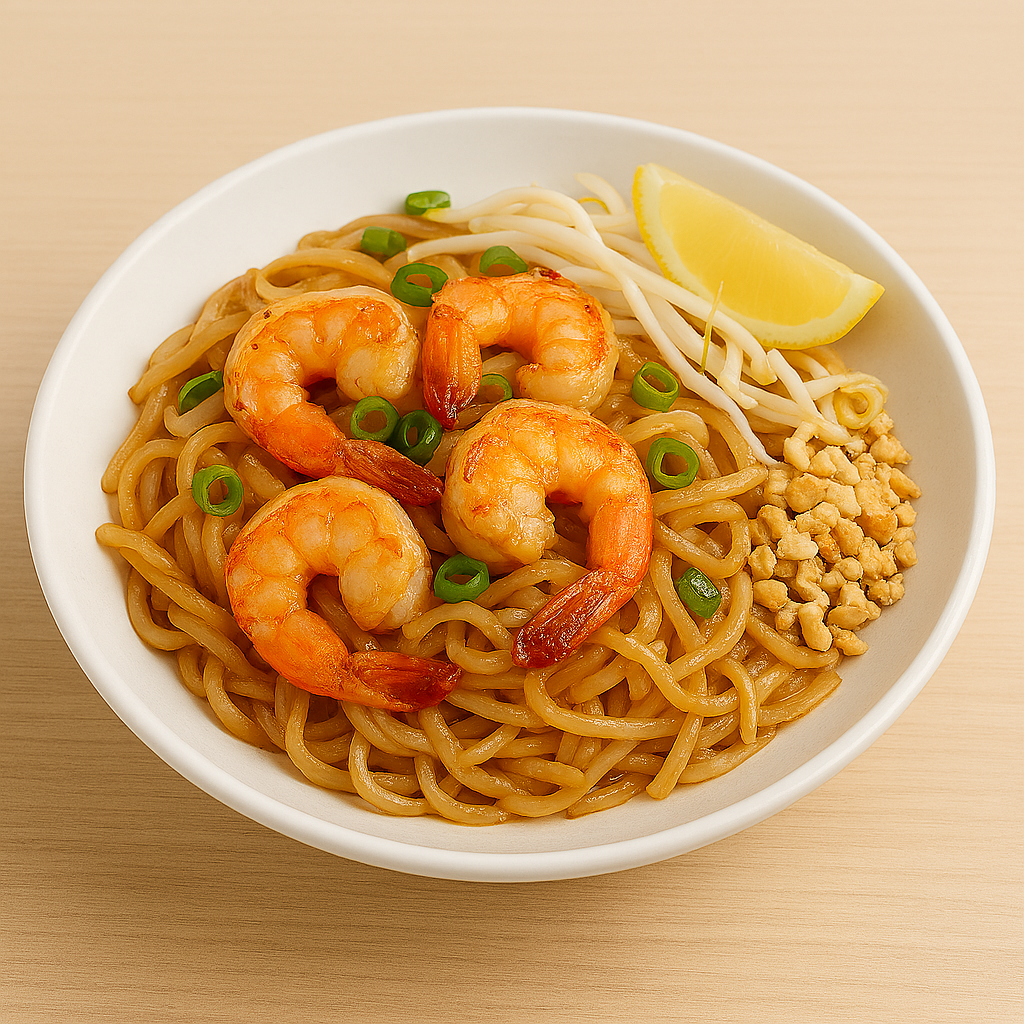
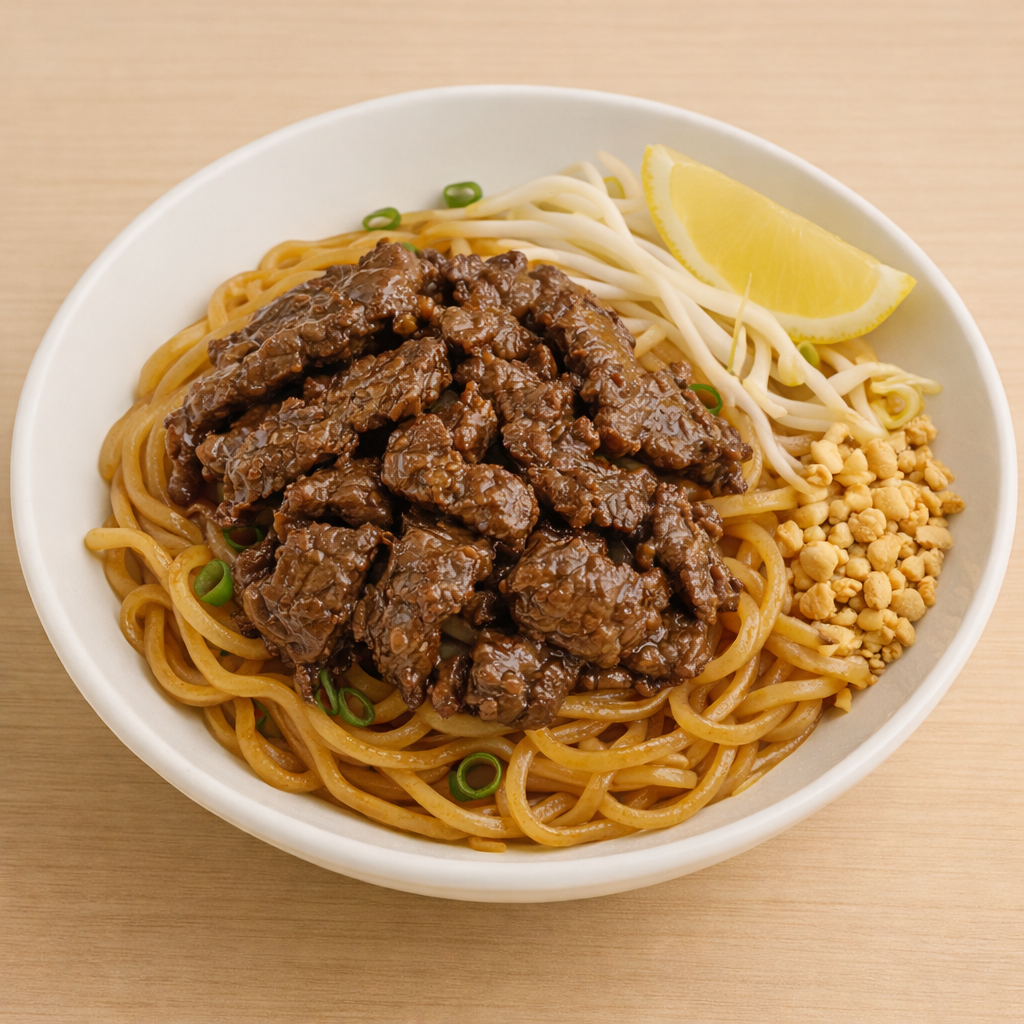
Add protein image switching and improve UI feedback
Implemented dynamic image switching based on selected protein in detailplatF, with corresponding FXML updates. Improved mainscreenF to visually indicate unavailable items and disable their selection. Added new protein-specific images for dishes.

diff --git a/src/main/java/com/mainscreenF.java b/src/main/java/com/mainscreenF.java
@@ -299,36 +299,54 @@ public class mainscreenF {
         img.setPreserveRatio(true);
 
         String imagePath = item.getImageUrl();
-
         if (imagePath != null && !imagePath.isBlank()) {
-
             var inputStream = getClass().getResourceAsStream("/" + imagePath);
             if (inputStream != null) {
-                Image image = new Image(inputStream);
-                img.setImage(image);
+                img.setImage(new Image(inputStream));
             } else {
                 System.err.println("Image introuvable : " + imagePath);
             }
         }
 
         VBox texts = new VBox(4);
-        texts.getChildren().addAll(
-                new Label(item.getName() + " - " + item.getPrice() + "0\u20AC"),
-                new Label(item.getDescription()),
-                new Label(item.getCalories() + " kcal")
-        );
+
+        Label namePrice = new Label(item.getName() + " - " + item.getPrice() + "0\u20AC");
+        Label desc = new Label(item.getDescription());
+        Label calories = new Label(item.getCalories() + " kcal");
+
+        texts.getChildren().addAll(namePrice, desc, calories);
+
+
+        if (!item.isAvailable()) {
+            Label unavailable = new Label("Victime de votre succ\u00E8s");
+            unavailable.setStyle("-fx-text-fill: red; -fx-font-weight: bold;");
+            texts.getChildren().add(unavailable);
+        }
 
         HBox card = new HBox(12, img, texts);
-
         card.setMinHeight(150);
         card.setPrefHeight(150);
-
         card.setMaxWidth(Double.MAX_VALUE);
-        card.setStyle("-fx-padding: 10; -fx-border-color: #ddd; -fx-border-radius: 8; -fx-background-radius: 8;");
-        card.setOnMouseClicked(e -> goDetail(e, item));
 
 
+        card.setStyle("""
+        -fx-padding: 10;
+        -fx-border-color: #ddd;
+        -fx-border-radius: 8;
+        -fx-background-radius: 8;
+    """);
+
+
+        if (!item.isAvailable()) {
+            card.setDisable(true);
+            card.setOpacity(0.6);
+            card.setStyle(card.getStyle() + "-fx-background-color: #f5f5f5;");
+        } else {
+            card.setOnMouseClicked(e -> goDetail(e, item));
+            card.setStyle(card.getStyle() + "-fx-cursor: hand;");
+        }
 
         return card;
     }
+
 }

diff --git a/src/main/java/com/detailplatF.java b/src/main/java/com/detailplatF.java
@@ -27,6 +27,7 @@ public class detailplatF {
 
 
 
+
     @FXML private Text quantityText;
     @FXML private ImageView imagePlat;
     @FXML private Text afficheNom;
@@ -86,6 +87,40 @@ public class detailplatF {
 
         rbBoeuf.setSelected(true);
     }
+
+
+    @FXML
+    private void onProteinChanged() {
+        if (proteinGroup.getSelectedToggle() == null || item == null) return;
+
+        RadioButton selected =
+                (RadioButton) proteinGroup.getSelectedToggle();
+
+        String protein = selected.getText();
+
+        switch (protein) {
+            case "Poulet" -> setProteinImage("poulet");
+            case "Boeuf" -> setProteinImage("boeuf");
+            case "Tofu" -> setProteinImage("tofu");
+            case "Crevette" -> setProteinImage("crevette");
+        }
+    }
+
+    private void setProteinImage(String protein) {
+
+        // ex : ramen_boeuf.png, ramen_tofu.png...
+        String baseName = item.getImageUrl().replace(".png", "");
+
+        String path = "/" + baseName + "_" + protein + ".png";
+
+        var stream = getClass().getResourceAsStream(path);
+        if (stream != null) {
+            imagePlat.setImage(new Image(stream));
+        } else {
+            System.err.println("Image protéine introuvable : " + path);
+        }
+    }
+
 
 
 
